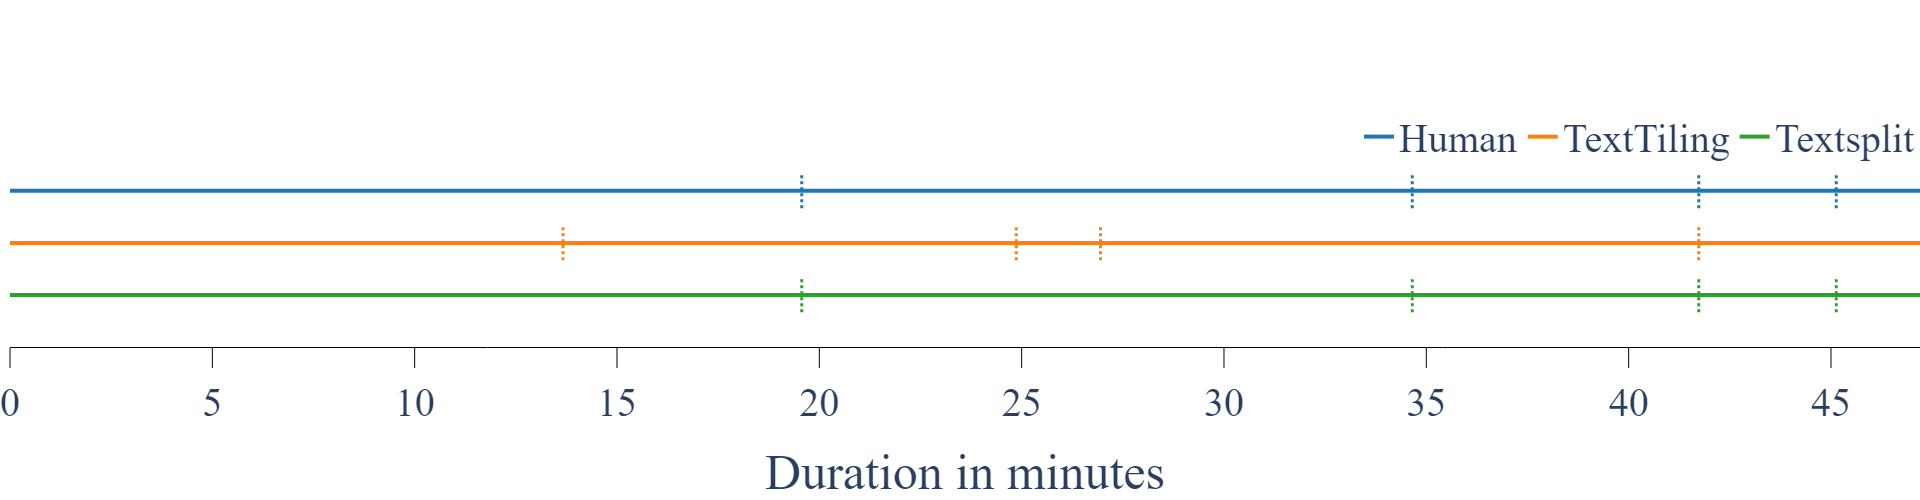
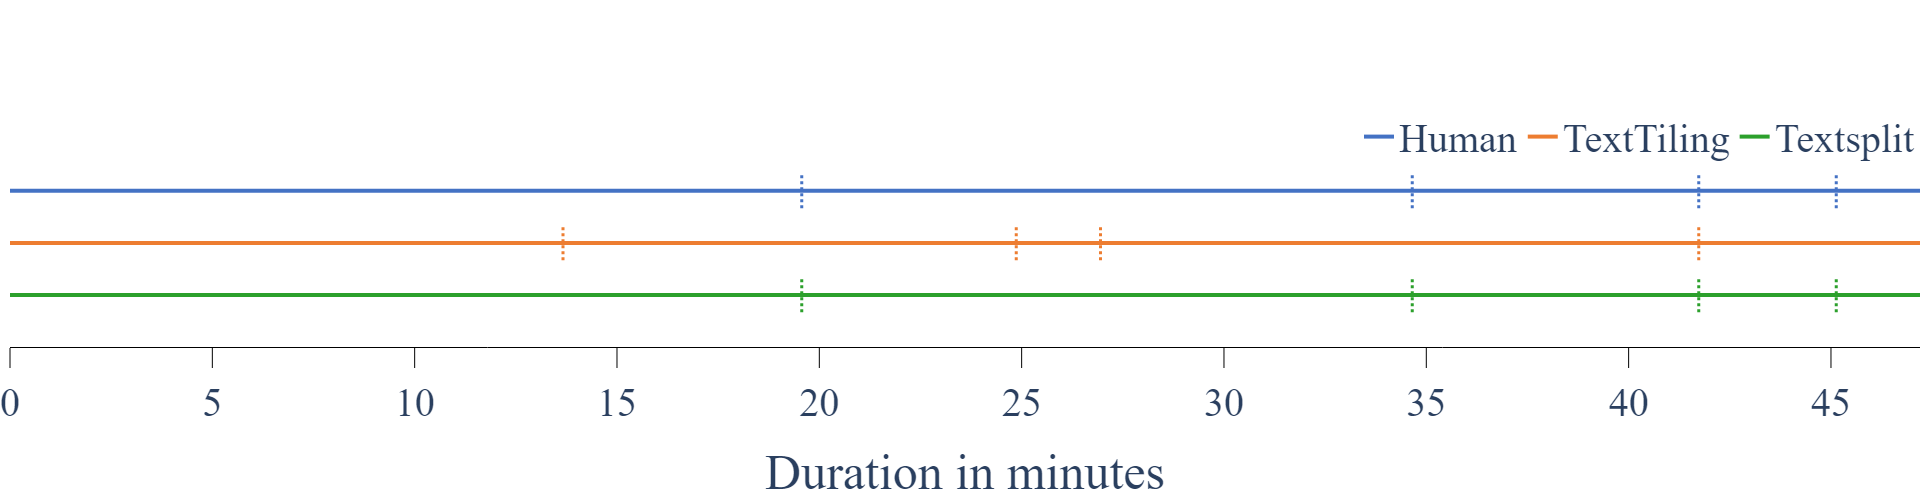
minor adjustment to the explanation texts in the app

Changed region(s): [[0.0, 0.48, 1.0, 0.51], [0.0, 0.36, 1.0, 0.39]]

diff --git a/Dash/tabs/tab_textsplit.py b/Dash/tabs/tab_textsplit.py
@@ -15,16 +15,15 @@ def tab_textsplit():
                     [
                         html.Div(
                             children=[
-                                html.Span("This tab provides an implementation of a text split algorithm by Christoph Schock "),
+                                html.Span("This tab provides an implementation of the textsplit algorithm developed by Christoph Schock in 2020 "),
                                 html.A("[Link to GitHub]", href="https://github.com/chschock/textsplit", target="_blank"),
-                                html.Span(" which is based on a paper by Alexander A. Alemi and Paul Ginsparg "),
-                                html.A("[Link to paper].", href="https://arxiv.org/pdf/1503.05543.pdf", target="_blank"),
-                                html.Span(" The algorithm uses word embeddings to find subtopics where the boundaries are chosen such that the subtopics are coherent."),
-                                html.Span(" This coherence can be described as accumulated weighted cosine similarity of the words of a subtopic to the mean vector of that subtopic."),
-                                html.Span(" The parameter"),
-                                html.I(" Segment length"),
-                                html.Span(" can be adjusted to fine-tune the algorithm and affect the number of subtopics it detects."),
-                                html.Span(" For a detailed discussion of the algorithm please refer to chapter X in our paper [link not yet available]."),
+                                html.Span(" which is based on a paper by Alexander Alemi and Paul Ginsparg from 2015 "),
+                                html.A("[Link to paper]", href="https://arxiv.org/pdf/1503.05543.pdf", target="_blank"),
+                                html.Span(". The algorithm uses word embedding and similarity measures to determine subtopics."),
+                                html.Span(" For an explanation of the algorithm and its parameters we refer to our paper."),
+                                html.Span(" Note that when clicking"),
+                                html.I(" Apply"),
+                                html.Span(", the keyword extraction settings from tab 2 are used to display the keywords table."),
                             ],
                         ),
                     ],
@@ -122,7 +121,7 @@ def tab_textsplit():
                     id="textsplit_table",
                     columns=[
                         {"name": "Time", "id": "Start time", "presentation": "markdown"},
-                        {"name": "Keywords (tf-idf)", "id": "Keywords", "presentation": "markdown"},
+                        {"name": "Keywords", "id": "Keywords", "presentation": "markdown"},
                     ],
                     style_data_conditional=[
                         {"if": {"state": "selected"},

diff --git a/Dash/tabs/tab_texttiling.py b/Dash/tabs/tab_texttiling.py
@@ -15,22 +15,13 @@ def tab_texttiling():
                     [
                         html.Div(
                             children=[
-                                html.Span("This tab provides an implementation of the TextTiling algorithm proposed by Marti A. Hearst "),
-                                html.A("[Link to paper].", href="https://www.aclweb.org/anthology/J97-1003.pdf", target="_blank"),
-                                html.Span(" The cues for detecting major subtopic shifts are patterns of lexical co-occurrence."),
-                                html.Span(" The radio button"),
-                                html.I(" Language"),
-                                html.Span(" is to set the list of stop words to the corresponding language."),
-                                html.Span(" Additional stop words can be provided."),
-                                html.Span(" Stop words only affect the TextTiling algorithm and not the tf-idf keyword extraction."),
-                                html.Span(" The parameters"),
-                                html.I(" Pseudeosentence length w"),
-                                html.Span(","),
-                                html.I(" Block size k"),
-                                html.Span(" and"),
-                                html.I(" Number of subtopics n"),
-                                html.Span(" can be adjusted to fine-tune the TextTiling algorithm."),
-                                html.Span(" For a detailed discussion on the effects of these parameters please refer to chapter X in our paper [link not yet available]."),
+                                html.Span("This tab provides an implementation of the TextTiling algorithm proposed by Marti Hearst in 1997 "),
+                                html.A("[Link to paper]", href="https://www.aclweb.org/anthology/J97-1003.pdf", target="_blank"),
+                                html.Span(". The cues for detecting major subtopic shifts are patterns of lexical co-occurrence."),
+                                html.Span(" For an explanation of the algorithm and its parameters we refer to our paper."),
+                                html.Span(" Note that when clicking"),
+                                html.I(" Apply"),
+                                html.Span(", the keyword extraction settings from tab 2 are used to display the keywords table."),
                             ],
                         ),
                     ],

diff --git a/Dash/tabs/tab_wordcloud_tfidf2.py b/Dash/tabs/tab_wordcloud_tfidf2.py
@@ -14,15 +14,14 @@ def tab_wordcloud_tfidf2():
                     [
                         html.Div(
                             children=[
-                                html.Span("This tab depicts a animated graphic of the TF-IDF algorithm as a Wordcloud. "),
-                                html.Span("With the Parameter "),
-                                html.I("Textblock length "),
-                                html.Span("the block length is adjusted. "),
-                                html.Span("The second Parameter "),
-                                html.I("n-highest score "),
-                                html.Span("means that only words equal or above the n-highest TF-IDF score are depicted. As an example if it is set to 5, all the items equal and above the 5 highest score are illustrated. "),
-                                html.Span("Consequently there are at least 5 words. However, because words can have the same score, more than 5 can appear. "),
-                                html.Span("With the play button the animation runs through the different blocks and illustrates the highest TF-IDF scores of the words in the individual block. "),
+                                html.Span("This tab provides an animated Wordcloud using TF-IDF."),
+                                html.Span(" With the first parameter "),
+                                html.I("Textblock length"),
+                                html.Span(" the block length in minutes can be adjusted."),
+                                html.Span(" With the second parameter "),
+                                html.I("n highest scores"),
+                                html.Span(" the number of words displayed can be reduced."),
+                                html.Span(" When clicking the play button, the animation runs through each textblock and depicts the words with the highest TF-IDF scores in the current block."),
                             ],
                         ),
                     ],
@@ -60,7 +59,7 @@ def tab_wordcloud_tfidf2():
 
                                 dbc.Col(
                                     [
-                                        html.Div("Show the n-highest scores"),
+                                        html.Div("Show n-highest scores"),
                                     ],
                                     width="auto",
                                 ),

diff --git a/Dash/tabs/tab_wordcloud_tfidf.py b/Dash/tabs/tab_wordcloud_tfidf.py
@@ -6,7 +6,7 @@ import plotly.graph_objects as go
 
 def tab_wordcloud_tfidf():
     vertical_space = "15px"
-    tab = dbc.Tab(label="TF-IDF graphic", children=[
+    tab = dbc.Tab(label="Visualization TF-IDF", children=[
         html.Div(style={"height": vertical_space}),
         dbc.Row(
             [
@@ -14,13 +14,15 @@ def tab_wordcloud_tfidf():
                     [
                         html.Div(
                             children=[
-                                html.Span("This tab depicts a animated graphic of the TF-IDF algorithm applied to the selected transcript. "),
-                                html.Span("With the "),
-                                html.I("Textblock length "),
-                                html.Span("the block length is adjusted. "),
-                                html.Span("The x-axis shows the Term Frequency score of the word in the selected block and the y-axis shows the Inverse Document Frequency score, where 1/3 means the word occurs in 1 of 3 blocks over the document. "),
-                                html.Span("When the mouse is moved over the word, the total TF-IDF score can also be seen."),
-                                html.Span("The higher the score, the more influencial the word in this specific block."),
+                                html.Span("This tab provides an animation of TF-IDF."),
+                                html.Span(" With the parameter "),
+                                html.I("Textblock length"),
+                                html.Span(" the block length in minutes can be adjusted."),
+                                html.Span(" The x-axis shows the term frequency of the word in the current textblock"),
+                                html.Span(" and the y-axis the inverse document frequency."),
+                                html.Span(" Note that 1/3 means the word occurs in 1 of 3 textblocks etc."),
+                                html.Span(" The case where a word occurs in all of the textblocks is not shown."),
+                                html.Span(" For a detailed description of TF-IDF we refer to our paper."),
                             ],
                         ),
                     ],

diff --git a/Dash/callbacks/callback_animation_tfidf.py b/Dash/callbacks/callback_animation_tfidf.py
@@ -62,8 +62,8 @@ def callback_animation_tfidf(app, transcripts):
 
             # fill in most of layout
             fig_dict["layout"] = go.Layout(margin={'t': 0, "b":0, "r":0, "l":0}, plot_bgcolor="rgba(0,0,0,0)")
-            fig_dict["layout"]["xaxis"] = {"title": "Frequency in Block", "showgrid": True, 'zeroline': True, 'visible': True, "range": [-0.001,0.014]}
-            fig_dict["layout"]["yaxis"] = {"title": "Inverse Document Frequency", "showgrid": True, 'zeroline': True, 'visible': True, "tickmode": "array", "tickvals": y_tickvals,
+            fig_dict["layout"]["xaxis"] = {"title": "Term frequency in current textblock", "showgrid": True, 'zeroline': True, 'visible': True, "range": [-0.001,max(tfidf_col)+0.001]}
+            fig_dict["layout"]["yaxis"] = {"title": "Inverse document frequency", "showgrid": True, 'zeroline': True, 'visible': True, "tickmode": "array", "tickvals": y_tickvals,
             "ticktext": y_ticktext, "type": "log"}
             fig_dict["layout"]["hovermode"] = "closest"
             fig_dict["layout"]["updatemenus"] = [
@@ -103,7 +103,7 @@ def callback_animation_tfidf(app, transcripts):
                 "xanchor": "left",
                 "currentvalue": {
                     "font": {"size": 20},
-                    "prefix": "Text block:",
+                    "prefix": "Textblock: ",
                     "visible": True,
                     "xanchor": "right"
                 },
@@ -130,7 +130,7 @@ def callback_animation_tfidf(app, transcripts):
                     "sizeref": 0.01
                 },
                 "customdata": dataset_by_block["score"],
-                "hovertemplate": '%{text}<br>TF-Score: %{x:.3f}<br>IDF-Score: %{y:.3f}<br>TF-IDF-Score: %{customdata:.3f}<extra></extra>'
+                "hovertemplate": '%{text}<br>TF: %{x:.3f}<br>IDF: %{y:.3f}<br>TF-IDF: %{customdata:.3f}<extra></extra>'
             }
             fig_dict["data"].append(data_dict)
 

diff --git a/Dash/tabs/tab_keywords.py b/Dash/tabs/tab_keywords.py
@@ -13,11 +13,12 @@ def tab_keywords():
                     [
                         html.Div(
                             children=[
-                                html.Span("This tab provides implementations of several keyword extraction algorithms."),
-                                html.Span(" The keywords are displayed in the table in Tab 1."),
-                                html.Span(" As this tab is quite empty at the moment, more information or settings might get added."),
-                                html.Span(" Note that KeyBERT takes quite a while to compute compared to the others.")
-
+                                html.Span("This tab provides implementations of four keyword extraction algorithms."),
+                                html.Span(" For an explanation of the algorithms and their parameters we refer to our paper."),
+                                html.Span(" When clicking"),
+                                html.I(" Apply to transcript tab"),
+                                html.Span(", the keywords are shown in the table in tab 1."),
+                                html.Span(" Note that the execution time of KeyBERT is much longer than for the other three.")
                             ],
                         ),
                     ],
@@ -329,7 +330,7 @@ def tab_keywords():
                                             id="keybert_diversity",
                                             type="number",
                                             step=0.1,
-                                            value=1,
+                                            value=0,
                                         ),
                                     ],
                                     width="auto",

diff --git a/Dash/tabs/tab_wordcloud_animation.py b/Dash/tabs/tab_wordcloud_animation.py
@@ -14,13 +14,13 @@ def tab_wordcloud_animation():
                     [
                         html.Div(
                             children=[
-                                html.Span("This tab illustrates an animated Wordcloud. "),
-                                html.Span("With the "),
-                                html.I("Textblock length "),
-                                html.Span("Parameter the block length in minutes can be adjusted. "),
-                                html.Span("If the play button is clicked, the animation runs through each block and depicts the most frequent used word. "),
-                                html.Span("The slider can also be varried manually. The size of the circle and the text shows the frequency of the word. "),
-                                html.Span("Circels are added to ensure a smooth transition. "),
+                                html.Span("This tab provides an animated Wordcloud."),
+                                html.Span(" With the parameter "),
+                                html.I("Textblock length"),
+                                html.Span(" the block length in minutes can be adjusted."),
+                                html.Span(" When clicking the play button, the animation runs through each textblock and depicts the most frequent words."),
+                                html.Span(" The slider can also be adjusted manually."),
+                                html.Span(" The bigger the circle and font of a word, the more occurrences it has in the selected textblock."),
                             ],
                         ),
                     ],

diff --git a/Dash/tabs/tab_wordcloud_draft.py b/Dash/tabs/tab_wordcloud_draft.py
@@ -15,12 +15,13 @@ def tab_wordcloud_draft():
                     [
                         html.Div(
                             children=[
-                                html.Span("This tab provides an graphical overview over the most frequent used words in each block. "),
-                                html.Span("With the "),
-                                html.I("Textblock length "),
-                                html.Span("Parameter the block length in minutes can be adjusted. "),
-                                html.Span("With the slider the individual block can be selected. "),
-                                html.Span("The Wordcloud bases on absolute frequency which means that the bigger the size of a word, the more frequent it is used in the selected paragraph."),
+                                html.Span("This tab provides a visual overview over the most frequent words in each text block."),
+                                html.Span(" With the parameter "),
+                                html.I("Textblock length"),
+                                html.Span(" the block length in minutes can be adjusted."),
+                                html.Span(" With the slider the individual blocks can be selected."),
+                                html.Span(" The Wordcloud is based on word frequency."),
+                                html.Span(" The bigger a word is written, the more occurrences it has in the selected textblock."),
                             ],
                         ),
                     ],

diff --git a/Images in paper/Topic Segmentation Results/timeline_plots.py b/Images in paper/Topic Segmentation Results/timeline_plots.py
@@ -38,7 +38,7 @@ fig.add_trace(go.Scatter(
     mode="lines",
     line=dict(
         width=4,
-        color="#1f77b4",
+        color="#4472C4",
     ),
     name="Human",
 ))
@@ -52,7 +52,7 @@ for i in range(1, len(timestamps_human_s)-1):
         line=dict(
             width=3,
             dash="dot",
-            color="#1f77b4",
+            color="#4472C4",
     ))
 
 fig.add_trace(go.Scatter(
@@ -61,7 +61,7 @@ fig.add_trace(go.Scatter(
     mode="lines",
     line=dict(
         width=4,
-        color="#ff7f0e",
+        color="#ED7D31",
     ),
     name="TextTiling",
 ))
@@ -75,7 +75,7 @@ for i in range(1, len(timestamps_texttiling_s )-1):
         line=dict(
             width=3,
             dash="dot",
-            color="#ff7f0e",
+            color="#ED7D31",
     ))
 
 fig.add_trace(go.Scatter(

diff --git a/Dash/callbacks/callback_animation_tfidf2.py b/Dash/callbacks/callback_animation_tfidf2.py
@@ -140,7 +140,7 @@ def callback_animation_tfidf2(app, transcripts):
                 "xanchor": "left",
                 "currentvalue": {
                     "font": {"size": 20},
-                    "prefix": "Text block:",
+                    "prefix": "Textblock: ",
                     "visible": True,
                     "xanchor": "right"
                 },

diff --git a/Dash/callbacks/callback_animation.py b/Dash/callbacks/callback_animation.py
@@ -124,7 +124,7 @@ def callback_animation(app, transcripts):
                 "xanchor": "left",
                 "currentvalue": {
                     "font": {"size": 20},
-                    "prefix": "Text block:",
+                    "prefix": "Textblock: ",
                     "visible": True,
                     "xanchor": "right"
                 },
